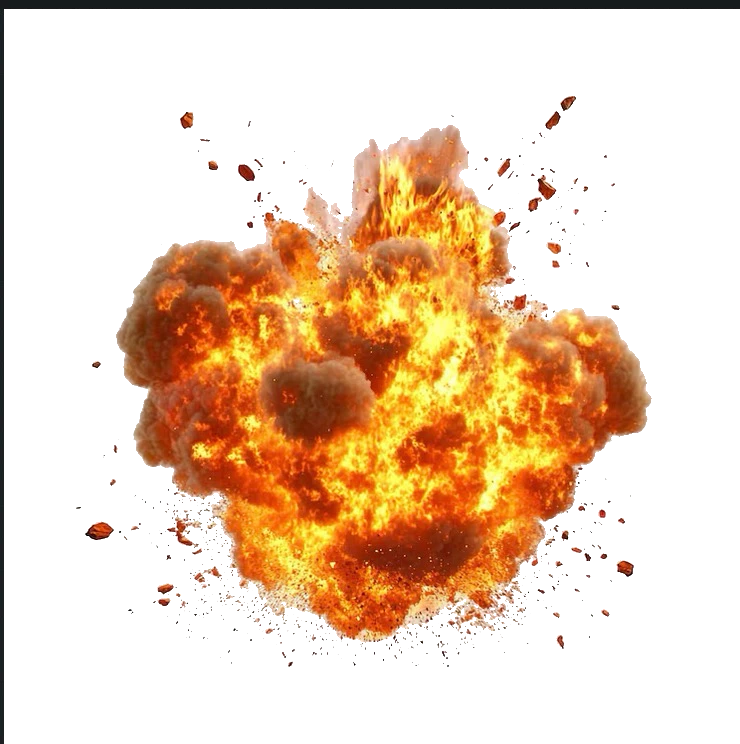
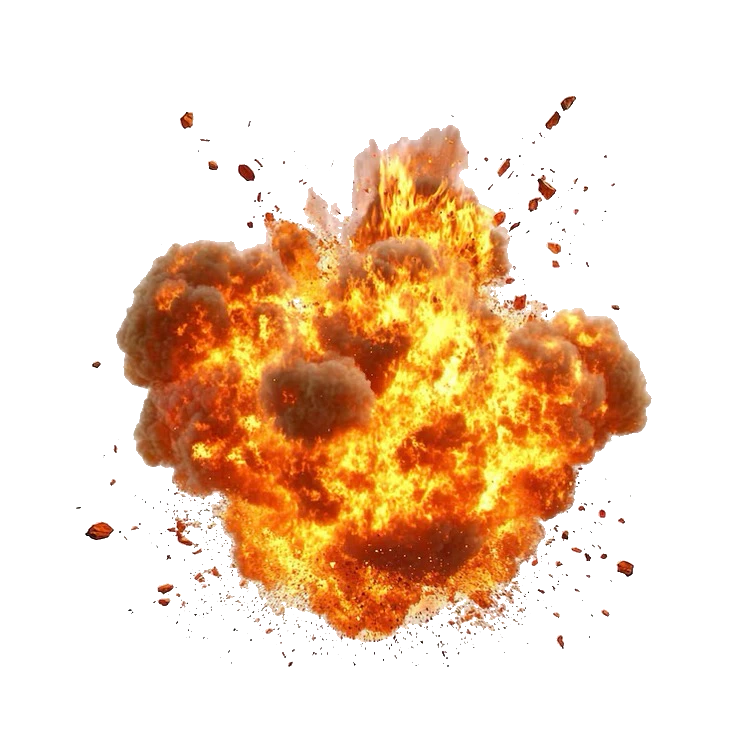
Remove dark frame border from explosion; cache-bust v3

Changed region(s): [[0.0, 0.0, 1.0, 1.0]]

diff --git a/index.html b/index.html
@@ -101,7 +101,7 @@
 <body>
   <div class="wrap">
     <header>
-      <h1><span class="emoji-logo"><img class="boom" src="explosion.webp?v=2" alt="" aria-hidden="true"><span class="arms">🤜🏻🤛🏻</span></span> GM apks <span class="code">&middot; 7934617</span></h1>
+      <h1><span class="emoji-logo"><img class="boom" src="explosion.webp?v=3" alt="" aria-hidden="true"><span class="arms">🤜🏻🤛🏻</span></span> GM apks <span class="code">&middot; 7934617</span></h1>
     </header>
 
     <div class="list" id="list"></div>
